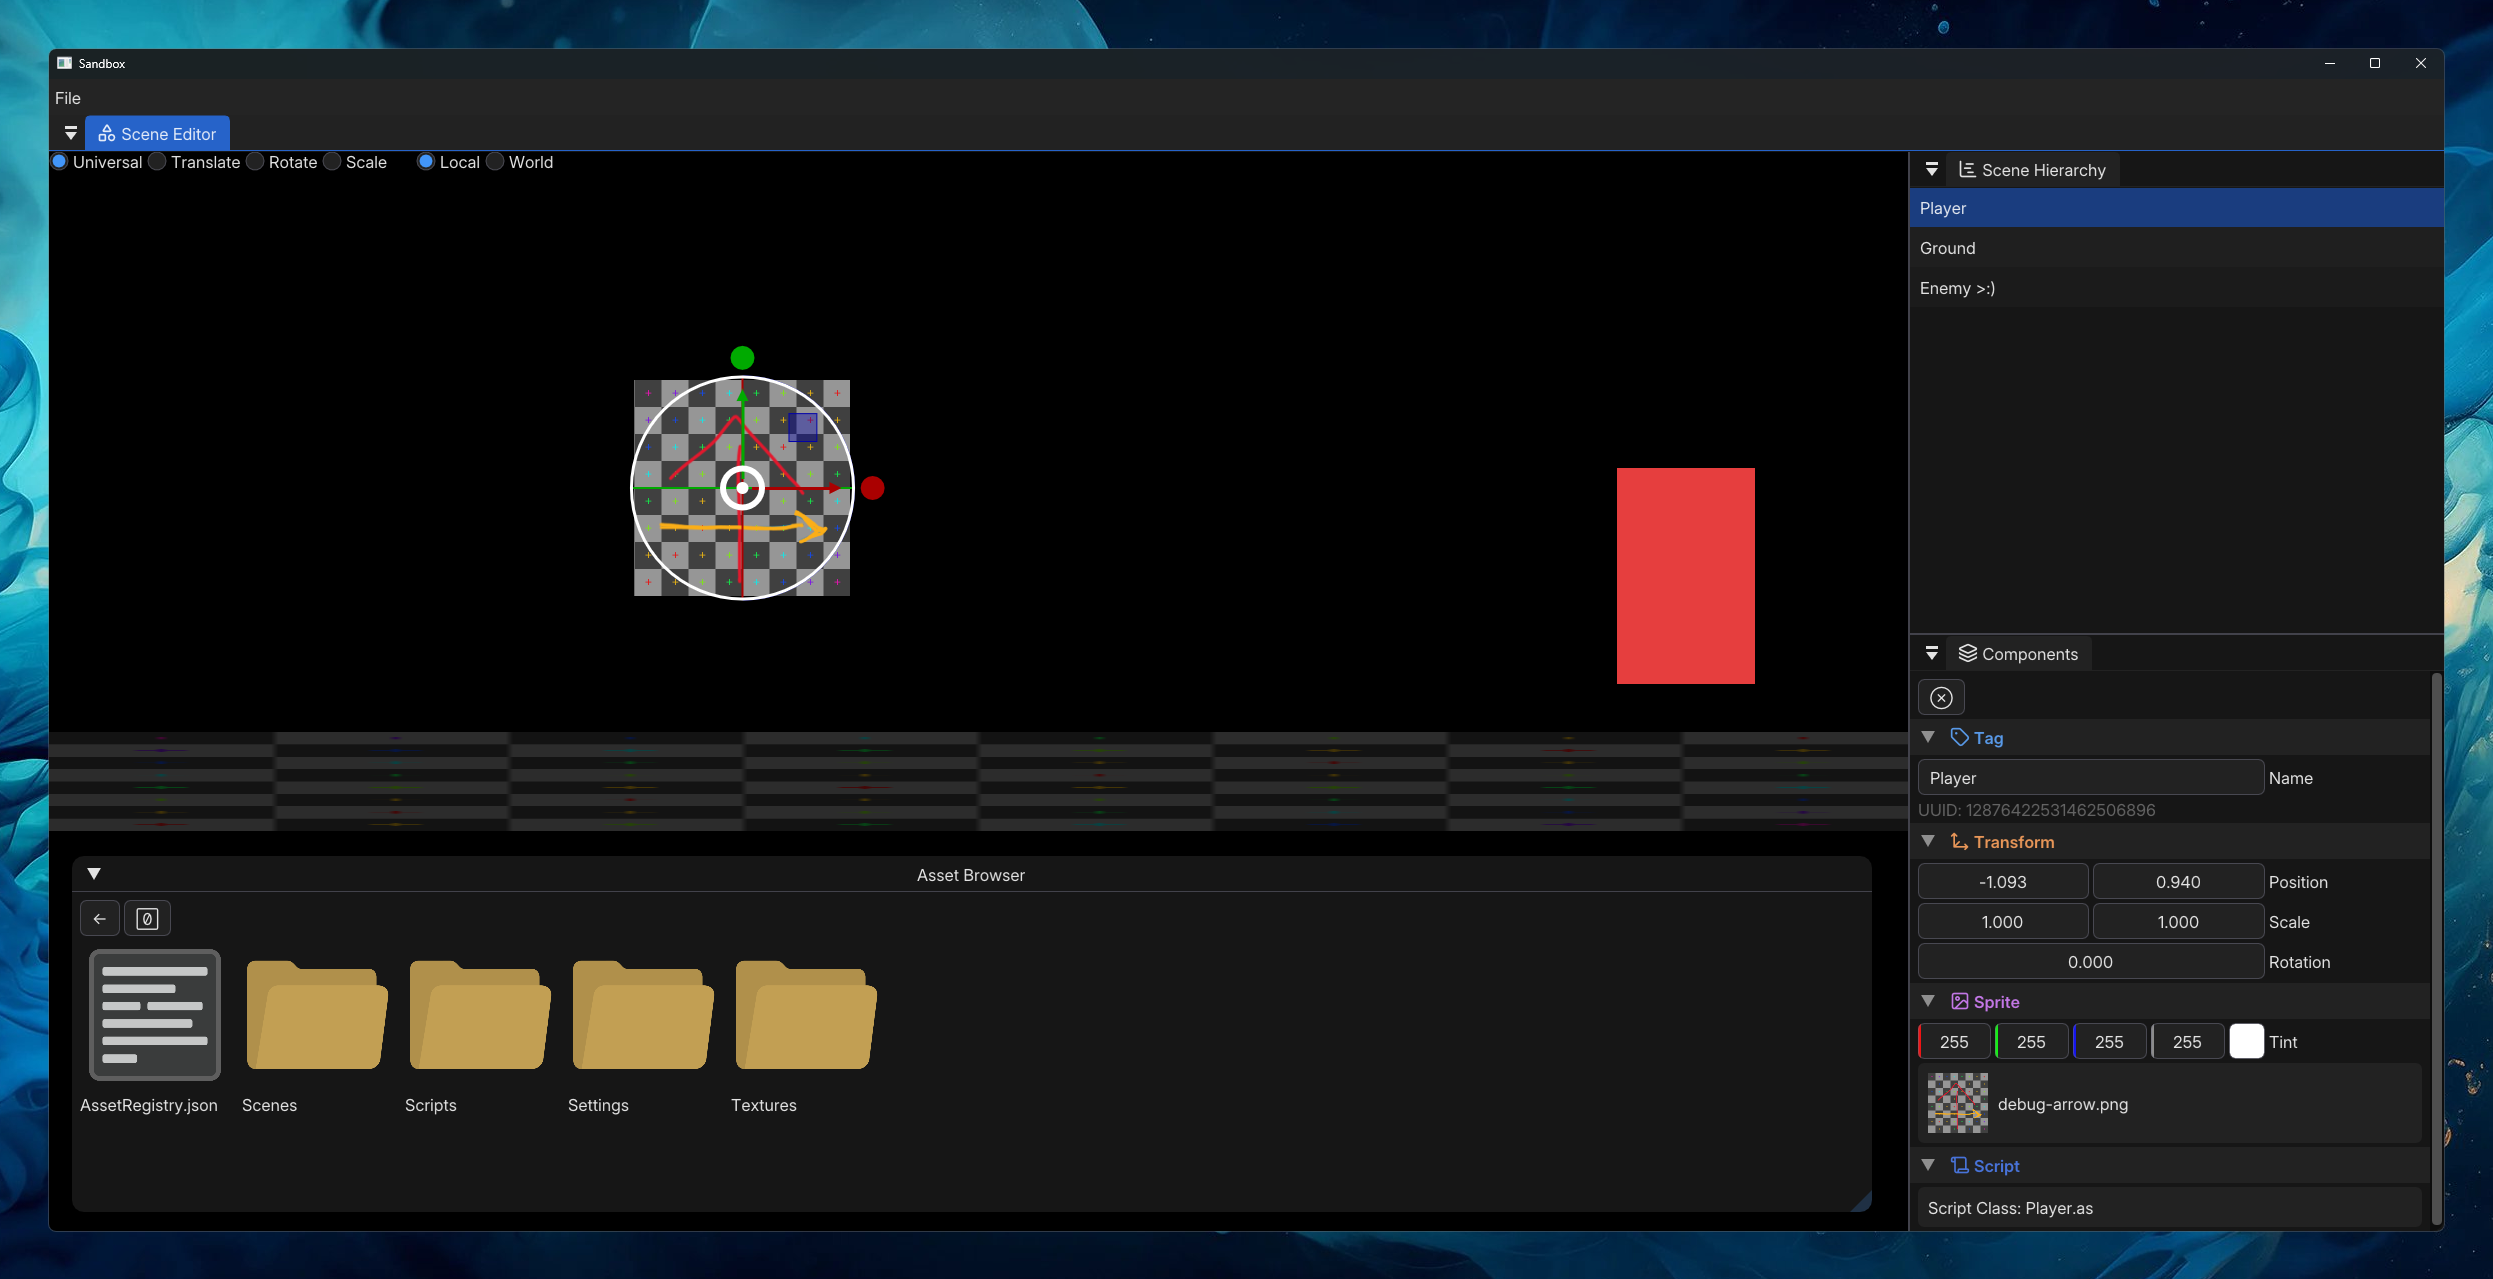
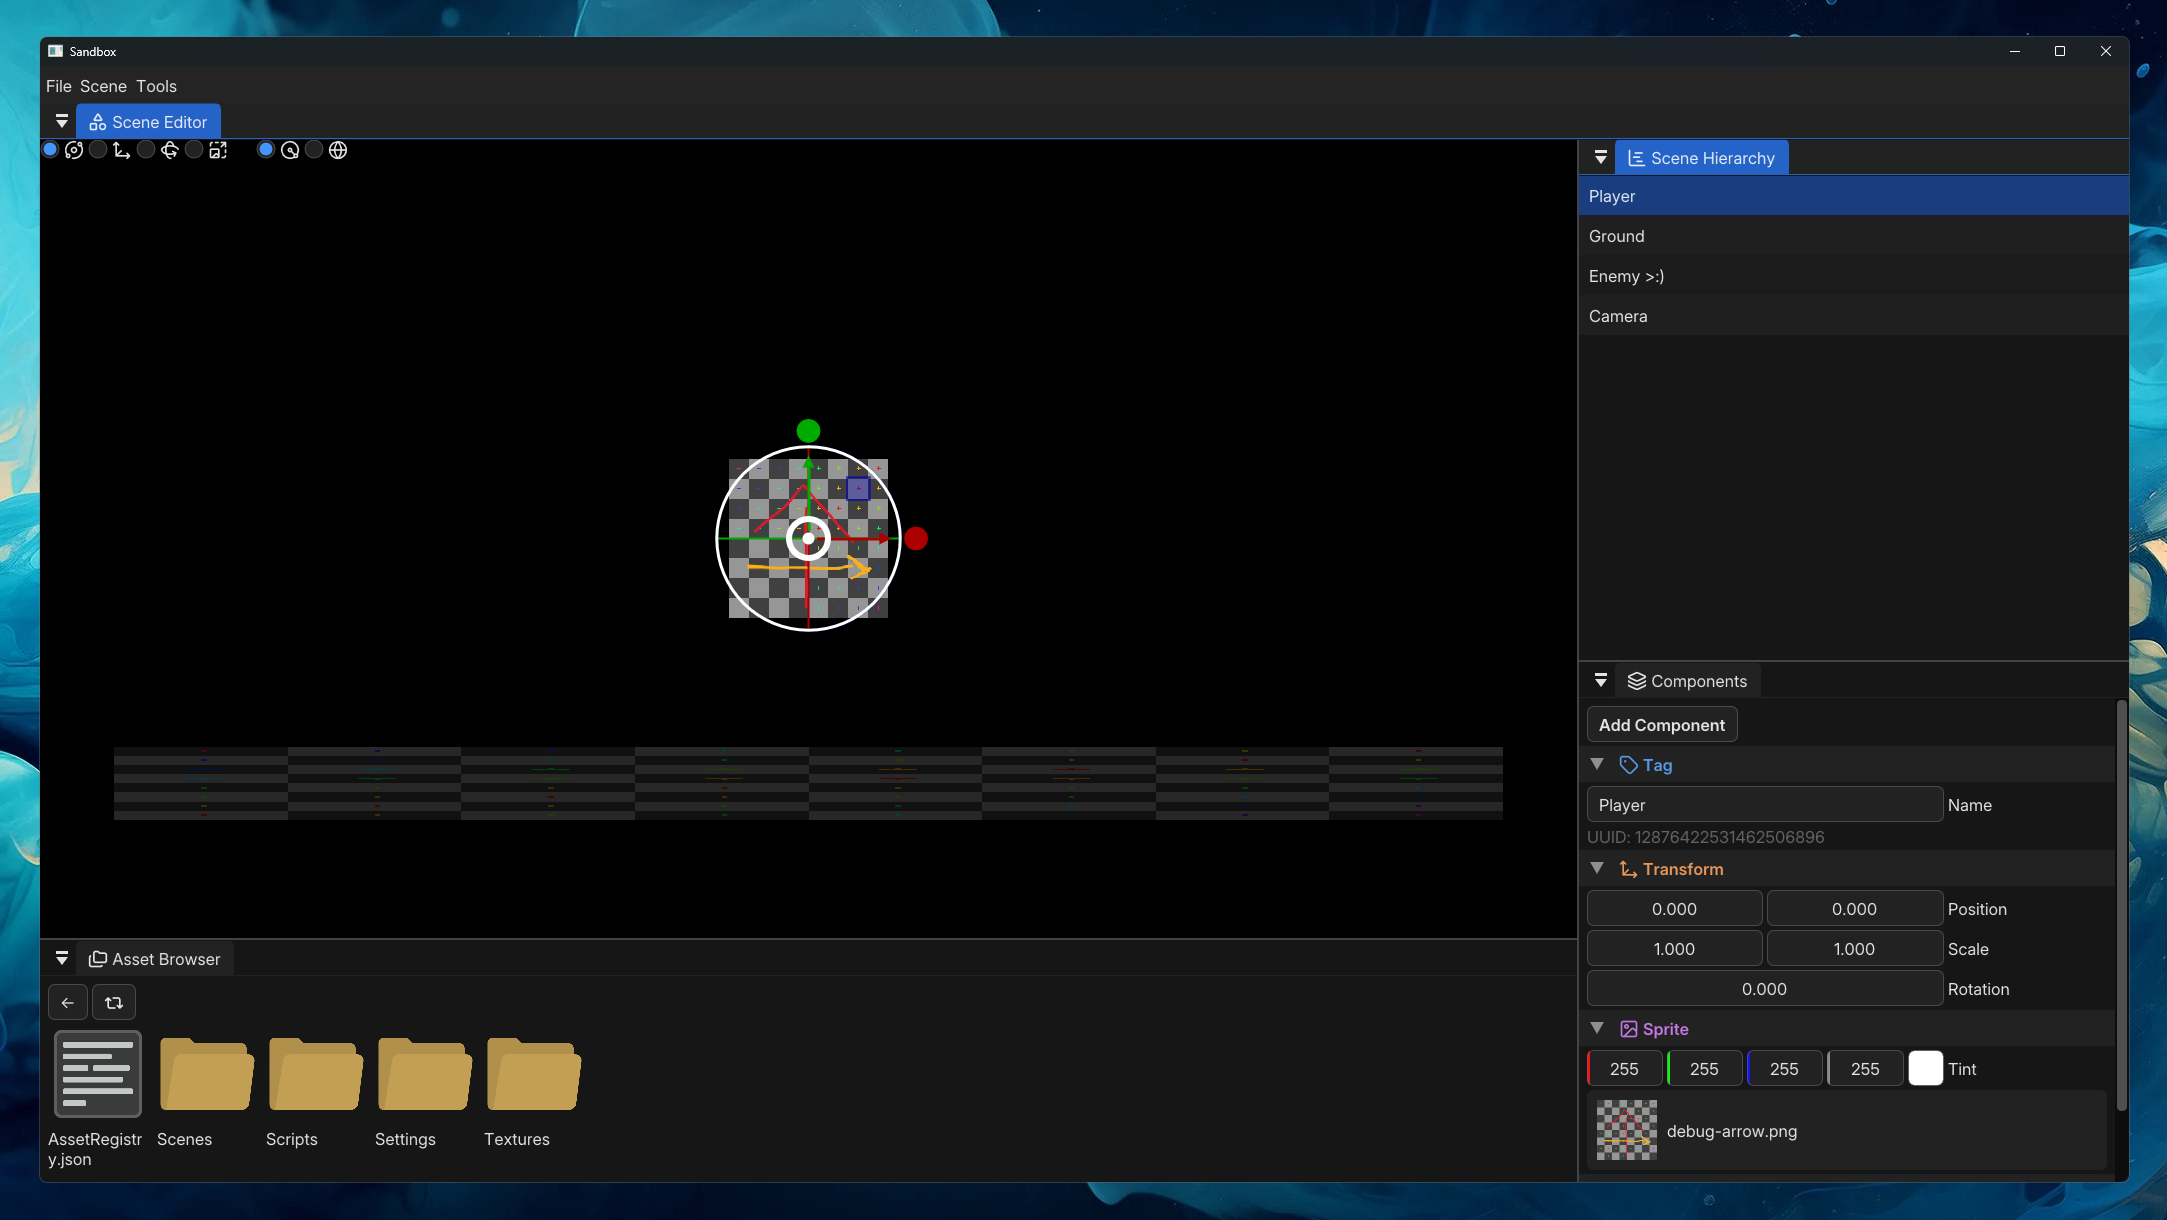
chore: update README

Changed region(s): [[0.0, 0.0, 1.0, 1.0], [0.2473, 0.2803, 0.4329, 0.5295], [0.8966, 0.5918, 0.9275, 0.623]]

diff --git a/README.md b/README.md
@@ -20,7 +20,7 @@ Cobalt Engine is a simple 2D game engine written in C++, using OpenGL as its gra
 - Linux
 
 > [!NOTE]
-> Only tested on Fedora Workstation 44
+> Only tested on Fedora Workstation 44 and CachyOS
 
 ## 0.1 Roadmap
 The primary goal for version 0.1 is to make the engine capable of creating a simple game through its editor.
@@ -75,14 +75,19 @@ cmake --build cmake-min-size-release
 ## Dependencies
 - [AngelScript](https://github.com/anjo76/angelscript) - Extremely flexible cross-platform scripting library
 - [Catch 2](https://github.com/catchorg/Catch2) - Unit testing framework
+- [EASTL](https://github.com/electronicarts/EASTL) - Electronic Arts Standard Template Library
+- [enkiTS](https://github.com/dougbinks/enkits) - Task Scheduler for creating parallel programs
 - [EnTT](https://github.com/skypjack/entt) - Fast and reliable ECS
-- [Glad](https://github.com/Dav1dde/glad) - OpenGL function loader
 - [Glm](https://github.com/g-truc/glm) - Mathematics library for graphics applications
 - [Dear ImGui](https://github.com/ocornut/imgui) - Immediate-mode GUI library for the editor
 - [ImGuizmo](https://github.com/cedricguillemet/imguizmo) - A collection of Dear ImGui widgets for 3D manipulation and more
+- [Magic Enum](https://github.com/Neargye/magic_enum) - Static reflection for enums
+- [optick](https://github.com/bombomby/optick) - C++ Profiler For Games
+- [rpmalloc](https://github.com/mjansson/rpmalloc) - Optimized cross-platform lock free memory allocator
 - [SDL3](https://wiki.libsdl.org/SDL3/FrontPage) - Simple DirectMedia Layer for low level multi-media
+- [SDL3 Image](https://github.com/libsdl-org/SDL_image) - Image decoding for many popular formats
+- [SDL3 Shadercross](https://github.com/libsdl-org/SDL_shadercross) - Shader translation library
 - [simdjson](https://github.com/simdjson/simdjson) - Fast JSON parser and serializer
 - [spdlog](https://github.com/gabime/spdlog) - Fast C++ logging library
 - [stb](https://github.com/nothings/stb) - Single-file public domain libraries
 - [Toml++](https://github.com/marzer/tomlplusplus) - TOML config parser and serializer
-- [rpmalloc](https://github.com/mjansson/rpmalloc) - Optimized cross-platform lock free memory allocator
